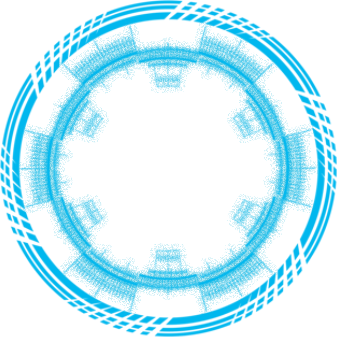
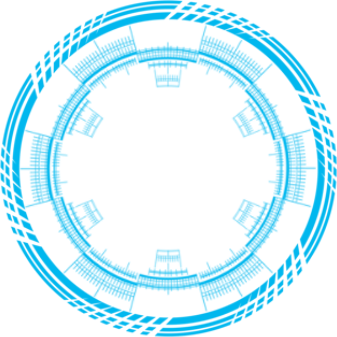
UI重构优化

Changed region(s): [[0.0593, 0.0593, 0.9496, 0.9496]]

diff --git a/source/css/technology.css b/source/css/technology.css
@@ -14,8 +14,12 @@
 .technology-body {
   width: 100%;
   height: 100%;
-  background: url(/images/background.jpg) no-repeat;
-  background-size: cover;
+  position: absolute;
+  overflow: hidden;
+}
+#canvas {
+  width: 100%;
+  height: 100%;
   position: absolute;
   overflow: hidden;
 }
@@ -61,12 +65,11 @@
 /* 动态圈 */
 .technology-circle {
   position: absolute;
-  top: calc(50% - 325px);
-  left: calc(50% - 325px);
-  width: 650px;
-  height: 650px;
+  top: calc(50% - 500px);
+  left: calc(50% - 500px);
+  width: 1000px;
+  height: 1000px;
   border-radius: 50%;
-  opacity: 0.6;
   z-index: 1; 
 }
 .technology-circle .wrap {
@@ -95,8 +98,8 @@
   top: 0;
   right: 0;
   margin: auto;
-  width: 470px;
-  height: 470px;
+  width: 820px;
+  height: 820px;
   animation: technology-middle-circle_rotate 30s linear 0s infinite;
 }
 .technology-circle .wrap .inner::after {
@@ -107,8 +110,11 @@
   position: absolute;
   top: 0;
   left: 0;
-  width: 100%;
-  height: 100%;
+  right: 0;
+  bottom: 0;
+  margin: auto;
+  width: 75%;
+  height: 75%;
   animation: technology-middle-circle-2_rotate 30s linear 0s infinite;
 }
 .technology-circle .wrap .inner::before {
@@ -239,19 +245,19 @@
   animation: technology__scale-nav 0.3s ease 1.4s forwards, technology__rotate-nav-1 5s ease 1.7s infinite;
 }
 .technology-nav .nav-box section:nth-child(1) a:nth-child(1) {
-  animation: technology__show-nav-text 0.7s ease 2.2s forwards, bgc-gradient 5s ease 0s infinite;
+  animation: technology__show-nav-text 0.7s ease 2.2s forwards;
 }
 .technology-nav .nav-box section:nth-child(1) a:nth-child(2) {
-  animation: technology__show-nav-text 0.7s ease 2.5s forwards, bgc-gradient 5s ease 0s infinite;
+  animation: technology__show-nav-text 0.7s ease 2.5s forwards;
 }
 .technology-nav .nav-box section:nth-child(2) {
-  animation: technology__scale-nav 0.3s ease 1.4s forwards, technology__rotate-nav-2 5s ease 1.7s forwards, bgc-gradient 5s ease 0s infinite;
+  animation: technology__scale-nav 0.3s ease 1.4s forwards, technology__rotate-nav-2 5s ease 1.7s forwards;
 }
 .technology-nav .nav-box section:nth-child(2) a:nth-child(1) {
-  animation: technology__show-nav-text 0.7s ease 2.3s forwards, bgc-gradient 5s ease 0s infinite;
+  animation: technology__show-nav-text 0.7s ease 2.3s forwards;
 }
 .technology-nav .nav-box section:nth-child(2) a:nth-child(2) {
-  animation: technology__show-nav-text 0.7s ease 2.4s forwards, bgc-gradient 5s ease 0s infinite;
+  animation: technology__show-nav-text 0.7s ease 2.4s forwards;
 }
 .technology-nav .message {
   animation: technology__show-message 0.4s ease 1s forwards, technology__hidden-message 0.5s ease 2s forwards;
@@ -265,6 +271,15 @@
 .technology__share-btn {
   animation: slide-left 0.4s ease 3s forwards;
 }
+.technology-frame section:nth-child(2) {
+  transform: rotate(90deg);
+}
+.technology-frame section:nth-child(3) {
+  transform: rotate(-90deg);
+}
+.technology-frame section:nth-child(4) {
+  transform: rotate(180deg);
+}
 
 @media screen and (min-width: 961px) {
   .technology-frame section:nth-child(1) {
@@ -274,20 +289,16 @@
   .technology-frame section:nth-child(2) {
     top: 20px;
     right: 20px;
-    transform: rotate(90deg);
   }
   .technology-frame section:nth-child(3) {
     bottom: 20px;
     left: 20px;
-    transform: rotate(-90deg);
   }
   .technology-frame section:nth-child(4) {
     bottom: 20px;
     right: 20px;
-    transform: rotate(180deg);
   }
   .technology-circle .wrap {
-    transform: scale(1.54);
   }
   .technology-nav .nav-box {
     position: absolute;
@@ -331,8 +342,10 @@
     bottom: 10px;
     right: 10px;
   }
+  .technology-circle {
+    transform: scale(0.8);
+  }
   .technology-circle .wrap {
-    transform: scale(1.25);
   }
   .technology-circle .wrap .inner {
     transform: scale(1);
@@ -401,10 +414,10 @@
     transform: scale(1); }}
 @keyframes technology-circle_rotate  {
   from {
-    transform: rotate(0deg) scale(1.2);
+    transform: rotate(0deg);
   }
   to {
-    transform: rotate(360deg) scale(1.2);
+    transform: rotate(360deg);
   }
 }
 @keyframes technology-middle-circle_rotate  {
@@ -429,10 +442,10 @@
 }
 @keyframes technology-middle-circle-3_rotate  {
   from {
-    transform: rotate(-0deg) scale(0.3);
+    transform: rotate(-0deg) scale(0.32);
   }
   to {
-    transform: rotate(-360deg) scale(0.3);
+    transform: rotate(-360deg) scale(0.32);
   }
 }
 @keyframes technology-circle_rotate__sp  {
@@ -546,15 +559,3 @@
     transform: translateY(100%); }
   to {
     transform: translateY(0%); } }
-
-@keyframes bgc-gradient {
-  0% {
-    opacity: 1;
-  }
-  50% {
-    opacity: 0.5;
-  }
-  100% {
-    opacity: 1;
-  }
-}

diff --git a/source/js/technology.js b/source/js/technology.js
@@ -165,4 +165,108 @@
     $sidebar.removeClass('on');
   });
 
+  //宇宙特效
+  "use strict";
+  var canvas = document.getElementById('canvas'),
+    ctx = canvas.getContext('2d'),
+    w = canvas.width = window.innerWidth,
+    h = canvas.height = window.innerHeight,
+
+    hue = 217,
+    stars = [],
+    count = 0,
+    maxStars = 900;//星星数量
+
+  var canvas2 = document.createElement('canvas'),
+    ctx2 = canvas2.getContext('2d');
+  canvas2.width = 100;
+  canvas2.height = 100;
+  var half = canvas2.width / 2,
+    gradient2 = ctx2.createRadialGradient(half, half, 0, half, half, half);
+  gradient2.addColorStop(0.025, '#CCC');
+  gradient2.addColorStop(0.1, 'hsl(' + hue + ', 61%, 33%)');
+  gradient2.addColorStop(0.25, 'hsl(' + hue + ', 64%, 6%)');
+  gradient2.addColorStop(1, 'transparent');
+
+  ctx2.fillStyle = gradient2;
+  ctx2.beginPath();
+  ctx2.arc(half, half, half, 0, Math.PI * 2);
+  ctx2.fill();
+
+  // End cache
+
+  function random(min, max) {
+    if (arguments.length < 2) {
+      max = min;
+      min = 0;
+    }
+
+    if (min > max) {
+      var hold = max;
+      max = min;
+      min = hold;
+    }
+
+    return Math.floor(Math.random() * (max - min + 1)) + min;
+  }
+
+  function maxOrbit(x, y) {
+    var max = Math.max(x, y),
+      diameter = Math.round(Math.sqrt(max * max + max * max));
+    return diameter / 2;
+    //星星移动范围，值越大范围越小，
+  }
+
+  var Star = function() {
+
+    this.orbitRadius = random(maxOrbit(w, h));
+    this.radius = random(60, this.orbitRadius) / 8; 
+    //星星大小
+    this.orbitX = w / 2;
+    this.orbitY = h / 2;
+    this.timePassed = random(0, maxStars);
+    this.speed = random(this.orbitRadius) / 600000; 
+    //星星移动速度
+    this.alpha = random(2, 10) / 10;
+
+    count++;
+    stars[count] = this;
+  }
+
+  Star.prototype.draw = function() {
+    var x = Math.sin(this.timePassed) * this.orbitRadius + this.orbitX,
+      y = Math.cos(this.timePassed) * this.orbitRadius + this.orbitY,
+      twinkle = random(10);
+
+    if (twinkle === 1 && this.alpha > 0) {
+      this.alpha -= 0.05;
+    } else if (twinkle === 2 && this.alpha < 1) {
+      this.alpha += 0.05;
+    }
+
+    ctx.globalAlpha = this.alpha;
+    ctx.drawImage(canvas2, x - this.radius / 2, y - this.radius / 2, this.radius, this.radius);
+    this.timePassed += this.speed;
+  }
+
+  for (var i = 0; i < maxStars; i++) {
+    new Star();
+  }
+
+  function animation() {
+    ctx.globalCompositeOperation = 'source-over';
+    ctx.globalAlpha = 0.5; //尾巴
+    ctx.fillStyle = 'hsla(' + hue + ', 64%, 6%, 2)';
+    ctx.fillRect(0, 0, w, h)
+
+    ctx.globalCompositeOperation = 'lighter';
+    for (var i = 1, l = stars.length; i < l; i++) {
+      stars[i].draw();
+    };
+
+    window.requestAnimationFrame(animation);
+  }
+
+  animation();
+
 })(jQuery);
